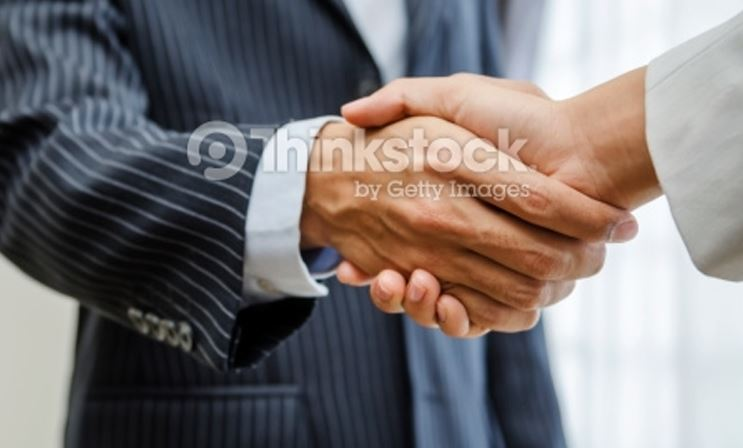
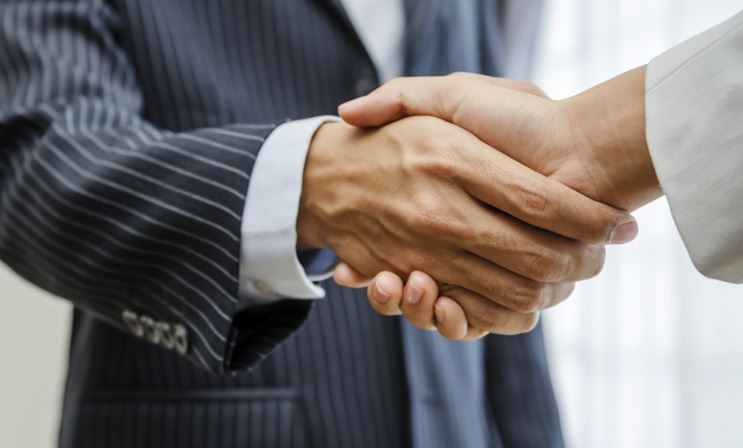
adding pictures to the  slide show

diff --git a/attijari-poc-mobile-app/apps/attijari_poc_mobile_app/common/pages/mortgage-center-view.html b/attijari-poc-mobile-app/apps/attijari_poc_mobile_app/common/pages/mortgage-center-view.html
@@ -45,12 +45,9 @@
 										</div>
 										<div>
 											<img u="image"
-												src="../images/content/advertisements_mortgage.jpg" />
+												src="../images/content/offrespecial.jpg" />
 										</div>
-										<div>
-											<img u="image"
-												src="../images/content/advertisements_mortgage.jpg" />
-										</div>
+										
 
 
 									</div>
